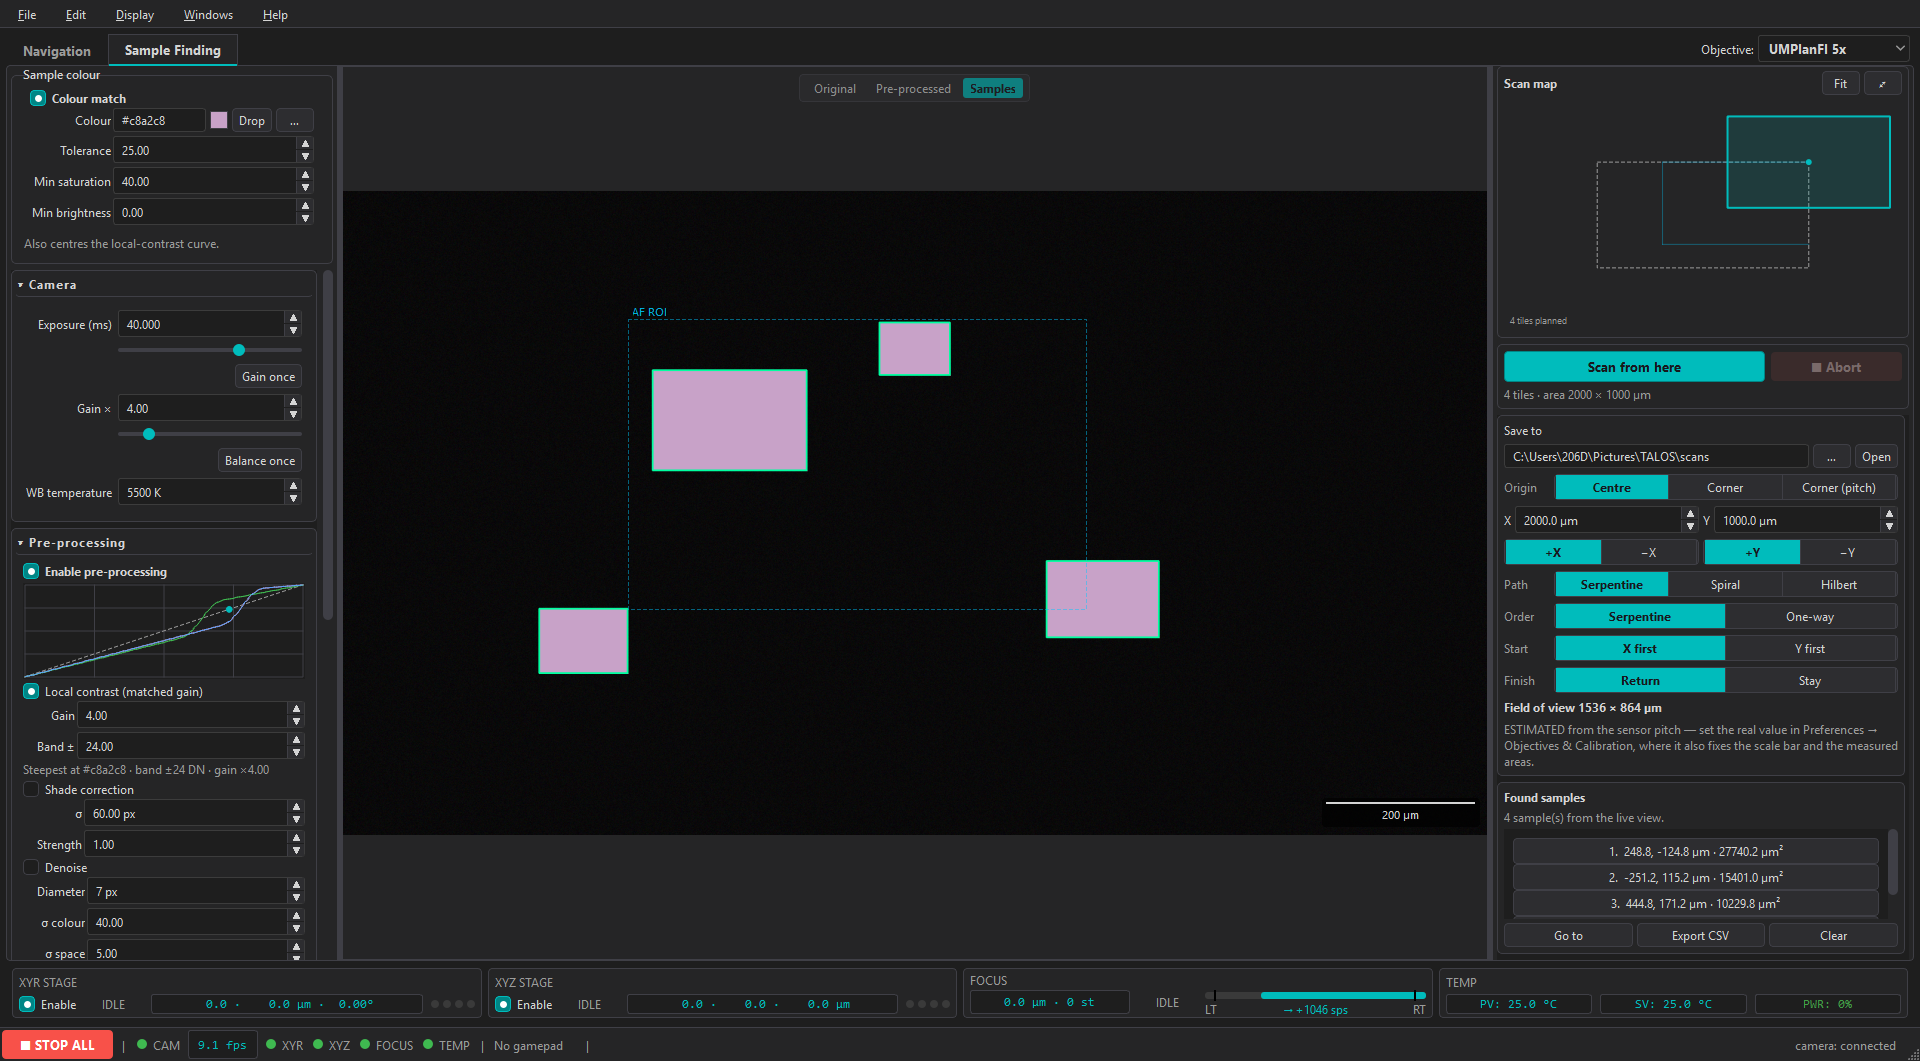
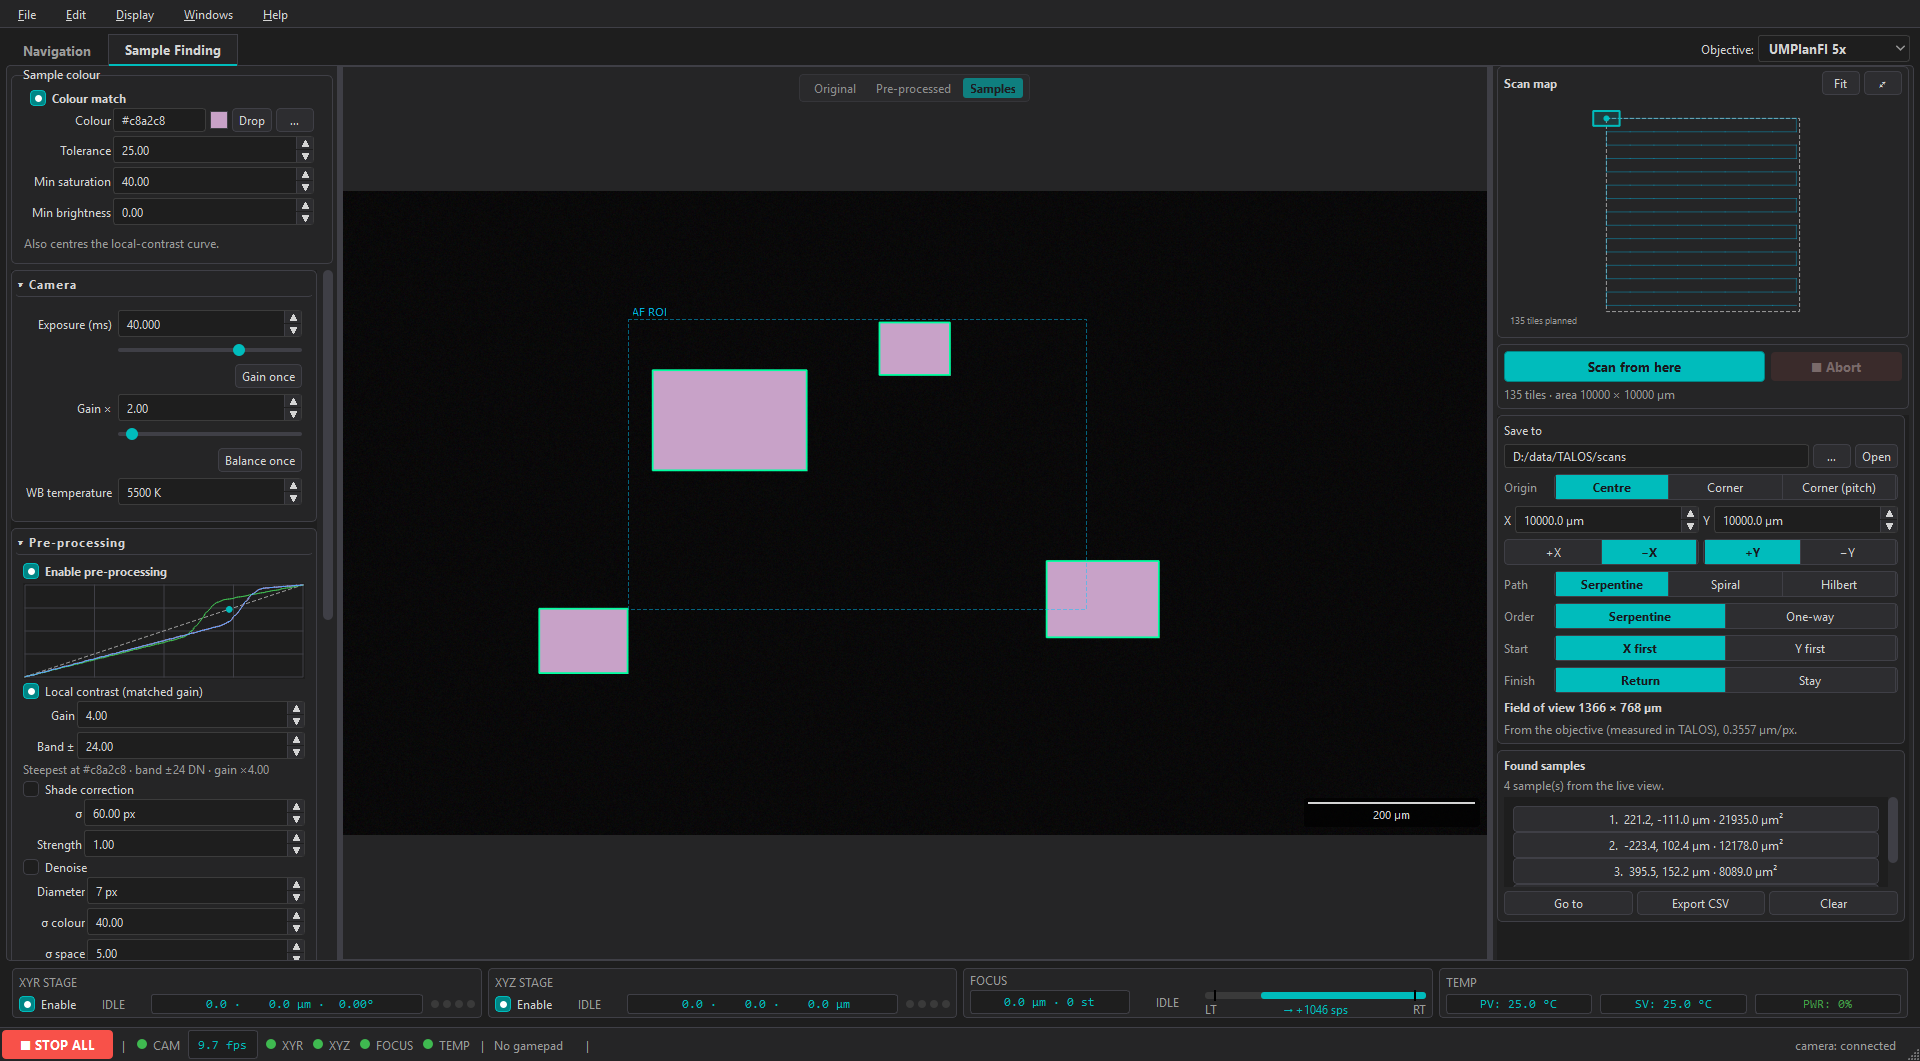
Privacy: the published screenshot carried the operator's home directory
The README's Sample Finding image showed `C:\Users\<user>\Pictures\TALOS\scans`
in the scan folder field — a personal path in a public repository. The
Navigation image escaped only because its field is narrow enough to elide
the front; the scan panel's is not.

`tools/ui_shot.py` now points both output folders somewhere neutral before
any grab, and the other three published images were checked with the vision
MCP: all clean.

Also in this commit: a regression test for the property the whole detection
design turns on — that the GUI thread never runs the pre-processing chain.
The first version of that test measured `submit()`, which is a queue put and
would pass even if the chain moved into the tick; it now measures the
GUI-thread entry point itself, and it was mutation-checked (with the chain
run inline, the tick blocks for 408 ms and the assertion fires).

1378 fast tests green; the slow sims are unchanged.

diff --git a/tests/unit/test_detect_engine.py b/tests/unit/test_detect_engine.py
@@ -120,3 +120,70 @@ def test_the_curve_does_not_lose_the_colour_it_is_centred_on(qapp):
     _index, result, _pre, _overlay = _run(qapp, frame=img, preprocess=pre,
                                           colour=FILTERED_BLOB)
     assert len(result.candidates) == 1
+
+
+# --- the non-blocking guarantee --------------------------------------------
+
+def test_the_gui_thread_never_runs_the_chain(qapp):
+    """The property the whole design turns on: pre-processing and
+    identification run on the worker, so an expensive filter delays the
+    next PREVIEW and nothing else. A capture that waited on a bilateral
+    filter would be a scan that quietly misses tiles.
+
+    Measured on the GUI-thread entry point (``_tick``), not on the queue
+    put — the failure this guards against is someone moving the chain INTO
+    the tick, where a queue assertion would still pass and the whole
+    application would stutter between frames.
+    """
+    import time as _time
+
+    from talos.cv import preprocess as pre
+    from talos.ui.detect_engine import DetectionEngine
+
+    original = pre.apply
+
+    def slow(img, cfg, centre=None):
+        _time.sleep(0.4)
+        return original(img, cfg, centre)
+
+    engine = DetectionEngine(interval_ms=30)
+    try:
+        engine.set_source(lambda: (_frame(), CALIB, None, _config(), 0.5,
+                                   False,
+                                   PreprocessConfig(enabled=True,
+                                                    brightness=5.0),
+                                   (200, 120, 120)))
+        started = _time.perf_counter()
+        engine._tick()
+        elapsed = _time.perf_counter() - started
+        assert elapsed < 0.05, \
+            f"the tick blocked for {elapsed:.3f}s — the chain is on the GUI thread"
+
+        # and the work really is happening: with a slow chain the worker is
+        # still busy a moment later, which is where the time went
+        pre.apply = slow
+        engine._busy = False
+        started = _time.perf_counter()
+        engine._tick()
+        assert _time.perf_counter() - started < 0.05
+    finally:
+        pre.apply = original
+        engine.shutdown()
+
+
+def test_the_worker_emits_both_views_from_one_transform(qapp):
+    """Both processed views and the mask come from ONE array, so the
+    operator can only tune against pixels the pipeline also saw."""
+    _index, result, preprocessed, overlay = _run(
+        qapp, preprocess=PreprocessConfig(enabled=True, exposure=2.0))
+    assert preprocessed is not None and overlay is not None
+    assert result.mask is not None
+    # the overlay is the pre-processed frame, annotated
+    assert overlay.shape == preprocessed.shape == _frame().shape
+    # a tile job asks for no preview at all (render=False): the scan does
+    # not pay for images it will not show
+    _index, _result, tile_pre, tile_overlay = _run(
+        qapp, preprocess=PreprocessConfig(enabled=True, exposure=2.0),
+        render=False)
+    assert tile_overlay is None
+    assert tile_pre is not None          # the layer is still handed back

diff --git a/tools/ui_shot.py b/tools/ui_shot.py
@@ -93,6 +93,15 @@ def main() -> int:
 
     tag = f"_{args.size[0]}x{args.size[1]}" if args.size else "_1080p"
 
+    # Point the output folders somewhere neutral BEFORE any grab: these
+    # images are published, and the default path is under the operator's
+    # home directory. The Narrative workspace's field elides it by luck of
+    # its width; the scan panel's does not.
+    app.settings.section("capture")["dir"] = "D:/data/TALOS/snapshots"
+    app.settings.section("scan")["dir"] = "D:/data/TALOS/scans"
+    window._navigation.capture_group._dir.setText("D:/data/TALOS/snapshots")
+    window._sample_finding.scan_panel._dir.setText("D:/data/TALOS/scans")
+
     # The AF measurement region: a deliberately off-centre box so the
     # overlay style (dashed outline, "AF ROI" tag, no fill) is visible and
     # the ROI numbers in both settings instances are non-default.
